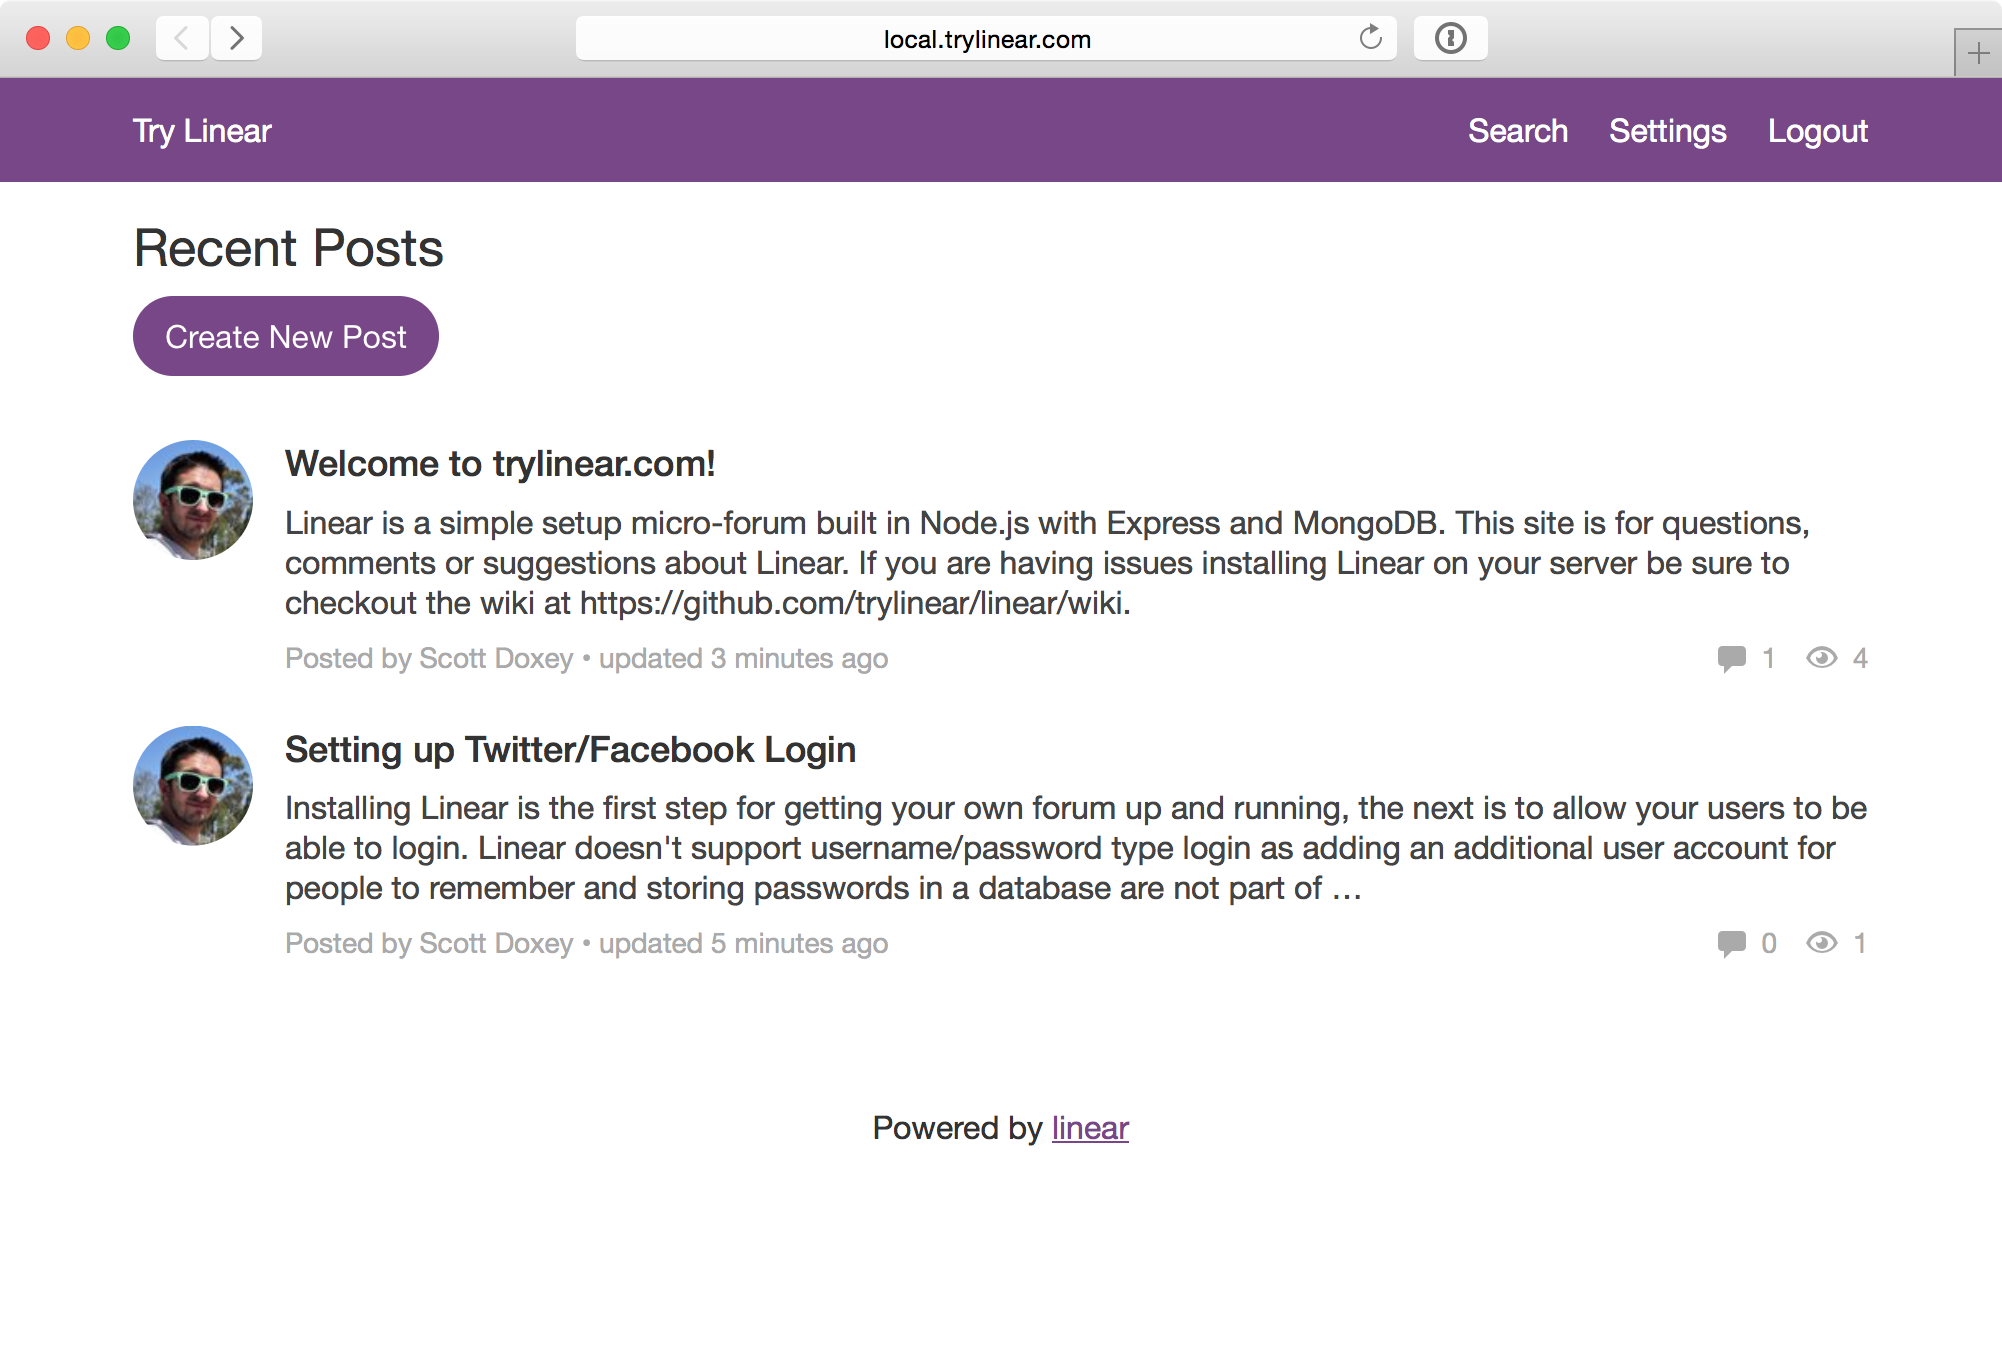
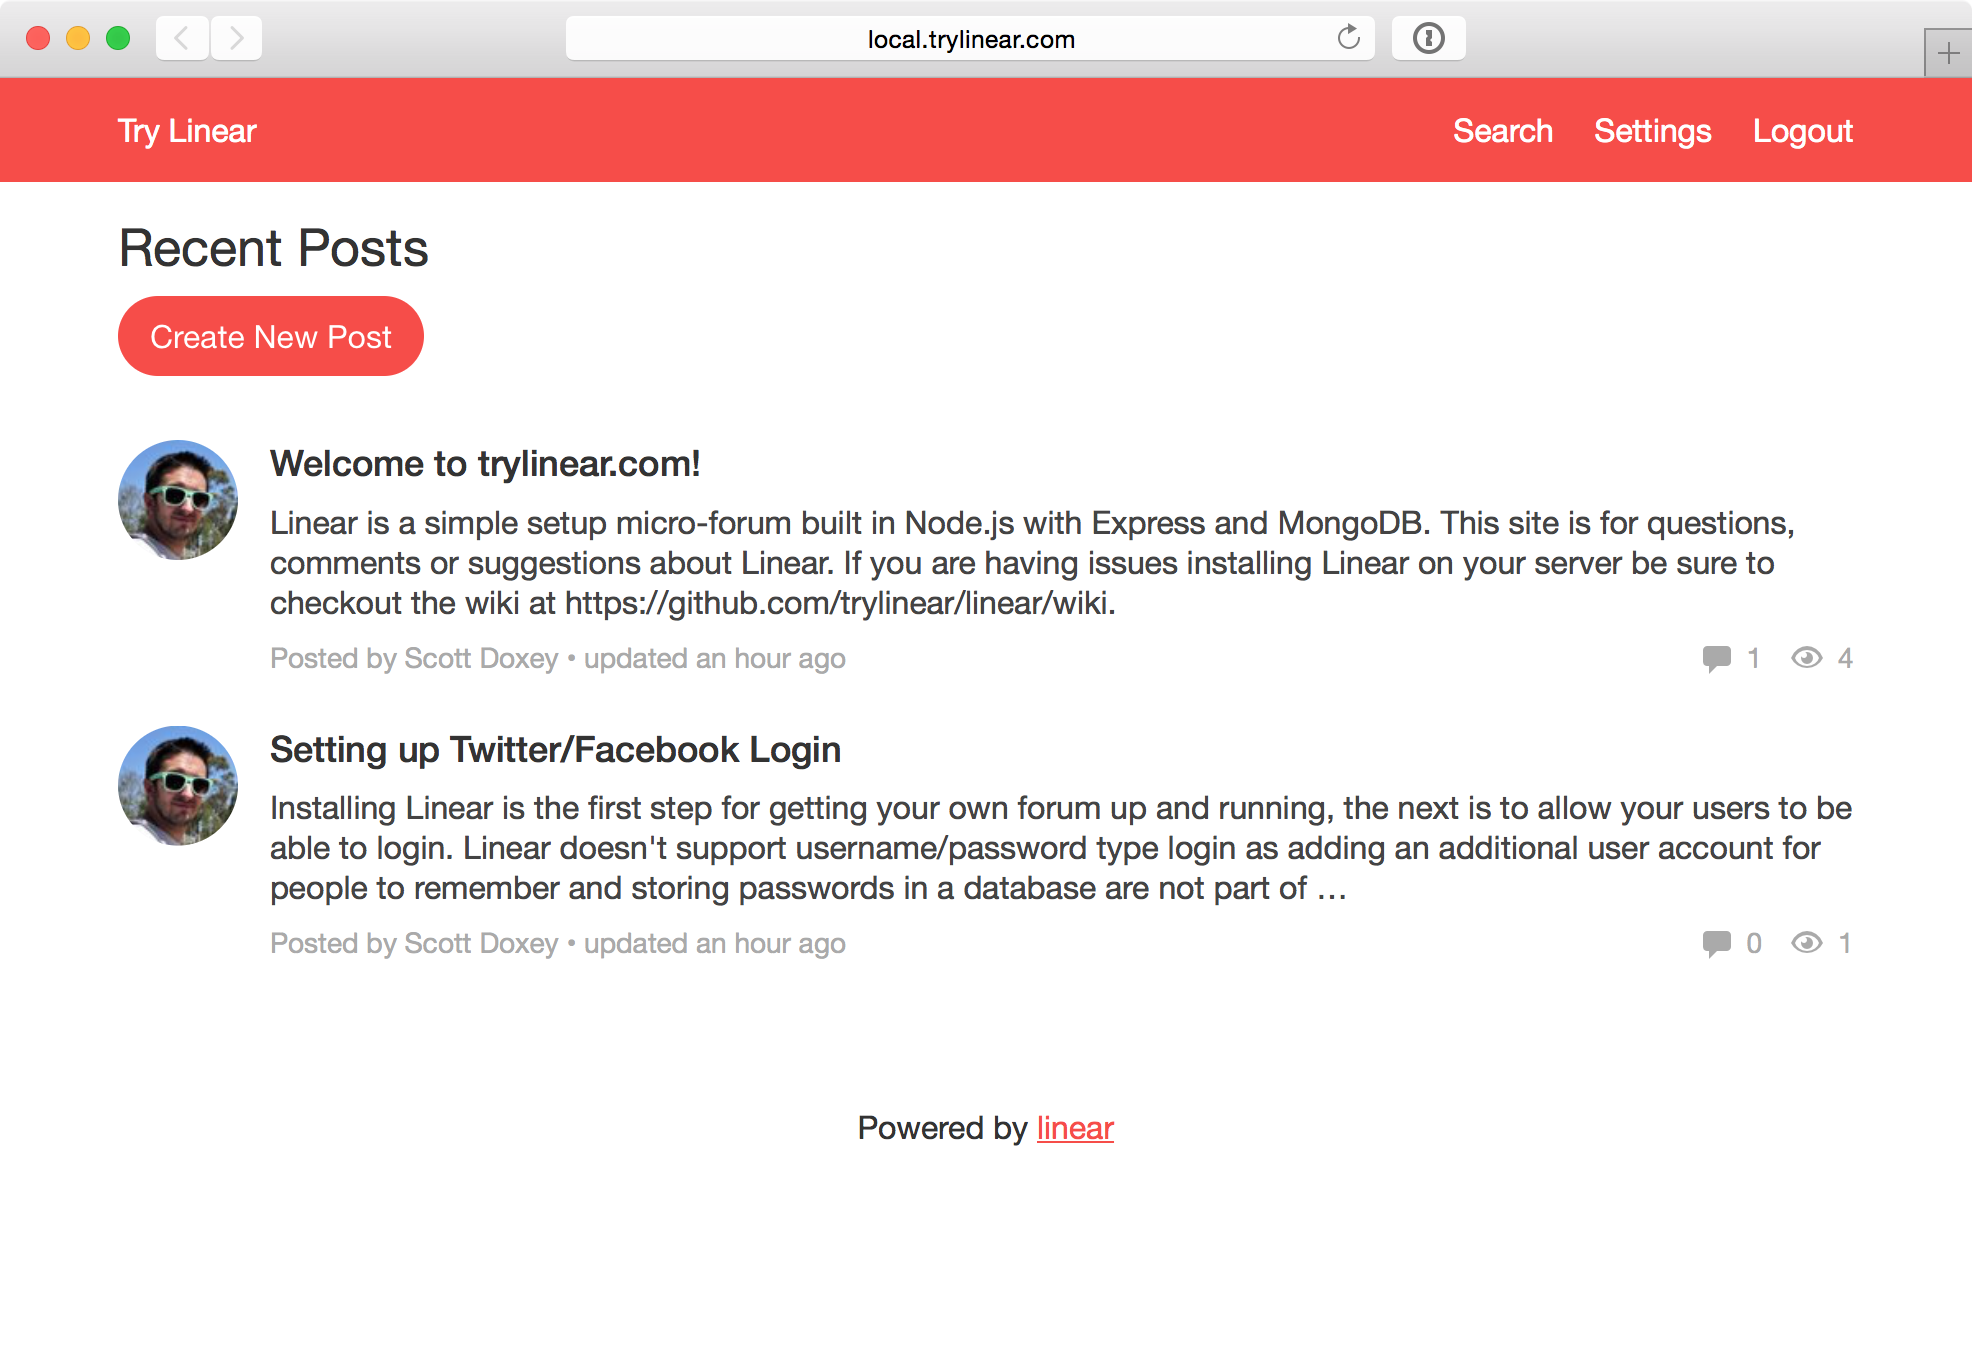
Updated project colors.

diff --git a/_sass/_projects.scss b/_sass/_projects.scss
@@ -45,6 +45,8 @@
     }
 
     &.linear {
+        color: #eee;
+        background-color: lighten(#F94B43, 3);
         img {
             padding: 1em 1em 2em;
             max-width: 45em;
